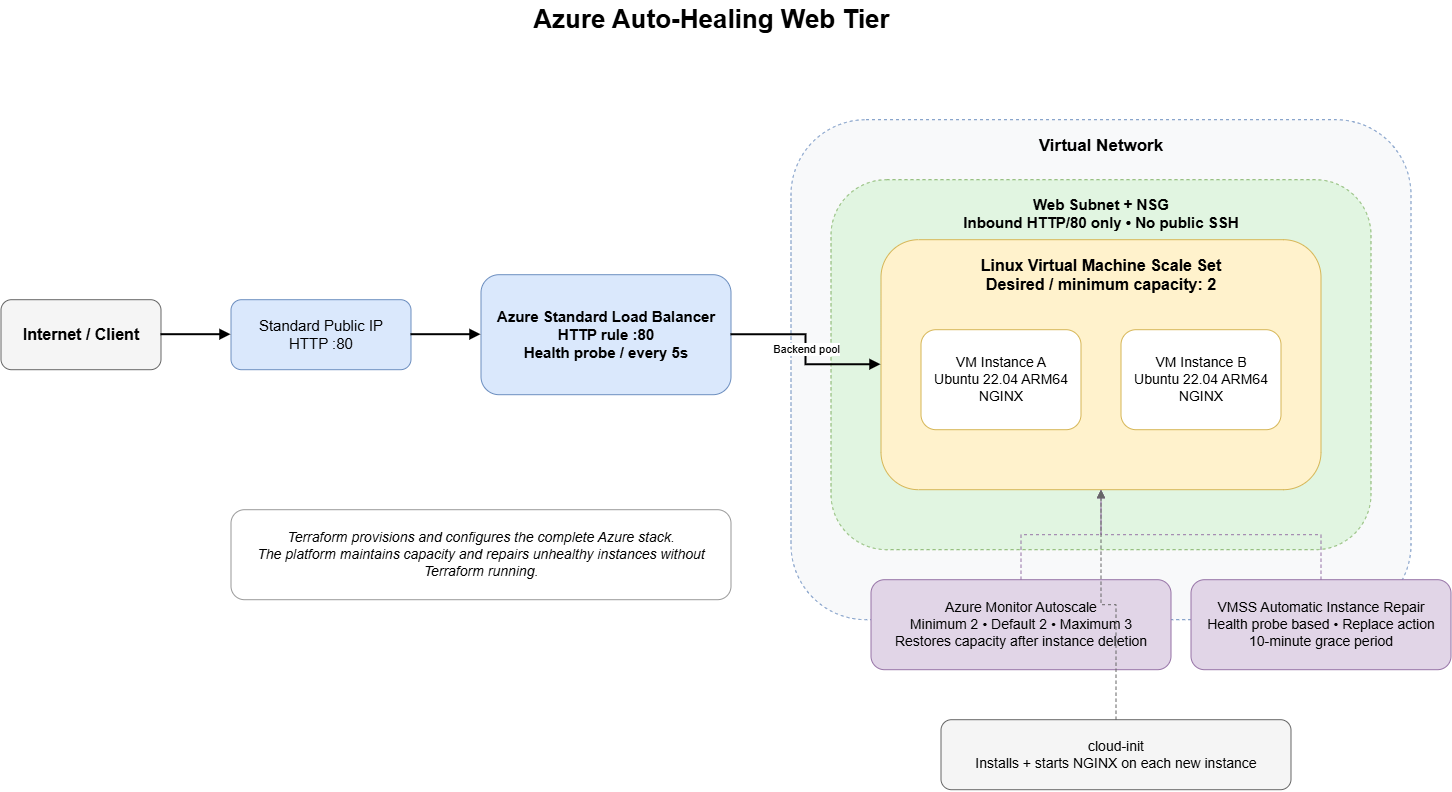
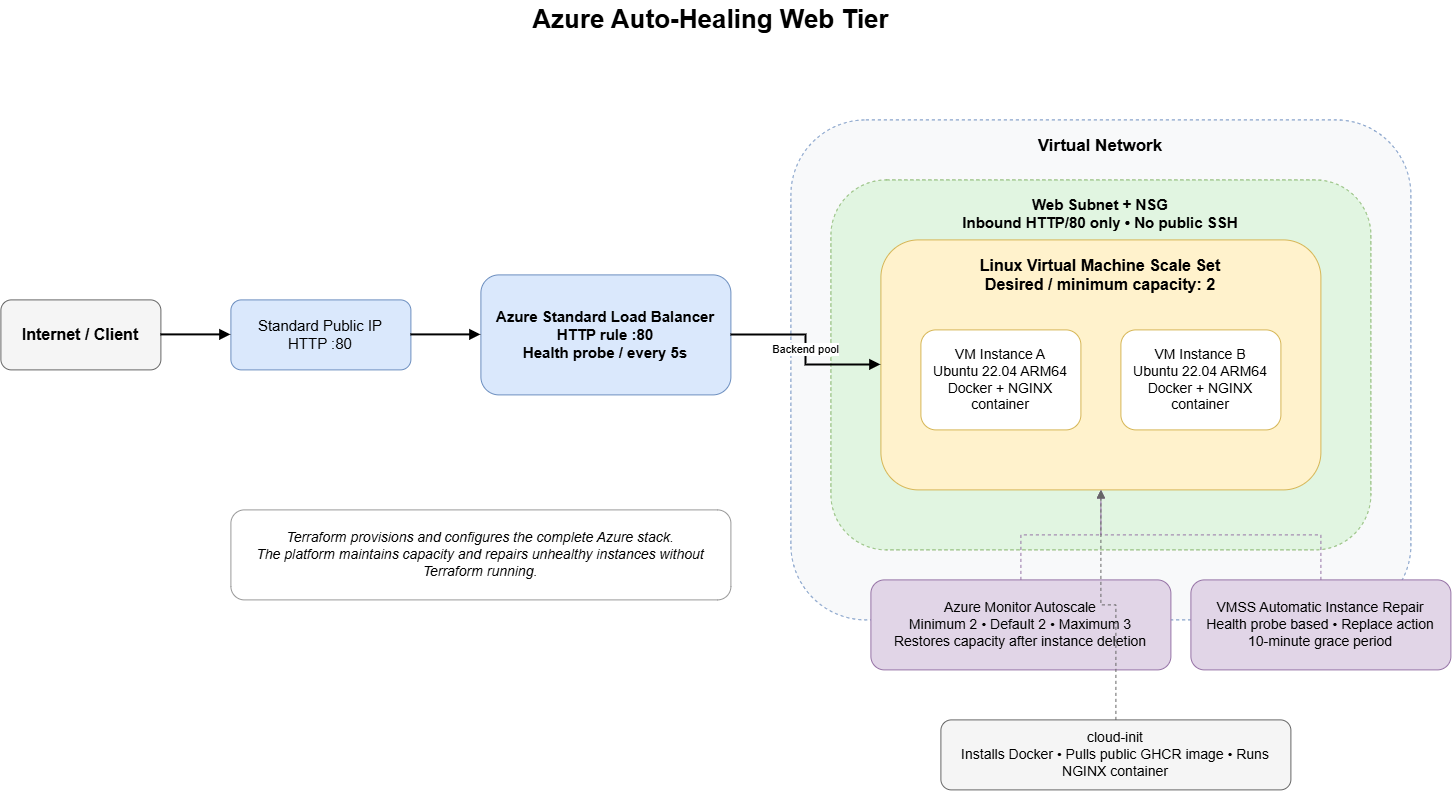
Document containerised web tier deployment

diff --git a/README.md b/README.md
@@ -2,7 +2,7 @@
 
 ## Overview
 
-This project deploys an auto-healing web tier in Microsoft Azure using Terraform. Internet traffic enters through a Standard Public IP and Azure Standard Load Balancer and is distributed across a Virtual Machine Scale Set (VMSS) running a minimum of two Ubuntu instances. Each instance is provisioned automatically with NGINX by cloud-init.
+This project deploys an auto-healing web tier in Microsoft Azure using Terraform. Internet traffic enters through a Standard Public IP and Azure Standard Load Balancer and is distributed across a Virtual Machine Scale Set (VMSS) running a minimum of two Ubuntu instances. Each instance is provisioned automatically by cloud-init with Docker, which pulls and runs a public ARM64 NGINX container image from GitHub Container Registry (GHCR).
 
 The design demonstrates Infrastructure as Code (IaC), N+1 capacity, health-based instance recovery, automatic capacity restoration, repeatable deployment and Terraform idempotency.
 
@@ -27,7 +27,7 @@ The deployed architecture contains:
 - Azure Standard Load Balancer with HTTP health probe, inbound HTTP rule and explicit outbound rule.
 - Linux Virtual Machine Scale Set with desired/minimum capacity of two instances.
 - Ubuntu 22.04 LTS ARM64 instances using `Standard_B2pts_v2`.
-- cloud-init bootstrap that installs, enables and starts NGINX.
+- cloud-init bootstrap that installs Docker, pulls the public ARM64 image from GHCR and runs the NGINX container on TCP/80.
 - Automatic Instance Repair using the Load Balancer health probe and `Replace` action.
 - Azure Monitor Autoscale configured with minimum/default capacity 2 and maximum 3, maintaining the required minimum capacity after an instance is explicitly deleted.
 
@@ -38,6 +38,12 @@ https://learn.microsoft.com/en-us/azure/virtual-machine-scale-sets/virtual-machi
 
 ```text
 .
+├── .github/
+│   └── workflows/
+│       └── docker-publish.yml
+├── docker/
+│   ├── Dockerfile
+│   └── index.html
 ├── cloud-init.yaml
 ├── main.tf
 ├── moved.tf
@@ -58,6 +64,7 @@ https://learn.microsoft.com/en-us/azure/virtual-machine-scale-sets/virtual-machi
     └── evidence/
         ├── cost/
         ├── deployment/
+        ├── docker/
         ├── idempotency/
         └── self-healing/
 ```
@@ -145,6 +152,12 @@ terraform output
 
 The Public IP can change after a full destroy/rebuild, so validation should always use the current Terraform output rather than a previously allocated address.
 
+At the time of the final container validation, the deployed endpoint was:
+
+<http://20.213.52.138/>
+
+The address above represents the current deployment only. `terraform output -raw web_url` remains the authoritative way to retrieve the endpoint after future rebuilds.
+
 ### Deployment Evidence
 
 The Terraform-managed Azure resources are shown below.
@@ -155,7 +168,7 @@ Two healthy VMSS instances were verified before failure testing:
 
 ![Two VMSS instances](docs/evidence/deployment/02-two-vmss-instances.png)
 
-The load-balanced endpoint successfully serves the default NGINX page:
+The original load-balanced deployment successfully served the default NGINX page before the container enhancement:
 
 ![NGINX load-balanced endpoint](docs/evidence/deployment/03-nginx-load-balanced-endpoint.png)
 
@@ -181,7 +194,7 @@ $webUrl = terraform output -raw web_url
 curl.exe $webUrl
 ```
 
-The response returns the default NGINX welcome page.
+The current deployment returns the custom static page served by the NGINX container.
 
 ### 3. Self-Healing / Capacity Recovery
 
@@ -200,7 +213,7 @@ The screenshot below captures the continuous HTTP monitor during deliberate inst
 
 ![Instance deletion with HTTP monitoring](docs/evidence/self-healing/01-instance-deletion-http-monitor.png)
 
-The replacement instance was subsequently verified with NGINX active and returning HTTP 200 locally:
+For the original native-NGINX validation, the replacement instance was subsequently verified with NGINX active and returning HTTP 200 locally:
 
 ```powershell
 az vmss run-command invoke `
@@ -246,7 +259,7 @@ Plan: 13 to add, 0 to change, 0 to destroy.
 Apply complete! Resources: 13 added, 0 changed, 0 destroyed.
 ```
 
-After the rebuild, the VMSS again contained two instances and the NGINX page was reachable through the newly allocated Load Balancer frontend IP.
+After the rebuild, the VMSS again contained two instances and the web endpoint was reachable through the newly allocated Load Balancer frontend IP.
 
 ### 5. Idempotency
 
@@ -265,6 +278,51 @@ No changes. Your infrastructure matches the configuration.
 This confirms the committed configuration converges cleanly without unnecessary infrastructure changes.
 
 ![Terraform plan showing no changes](docs/evidence/idempotency/01-terraform-plan-no-changes.png)
+
+## Container Image and Automated VM Provisioning
+
+The web workload is packaged as an NGINX container image. The repository includes a `Dockerfile` and static `index.html`, while the GitHub Actions workflow builds the image for `linux/arm64` and publishes it to GitHub Container Registry.
+
+Published image:
+
+```text
+ghcr.io/bishalraktim/azure-auto-healing-web-tier:latest
+```
+
+New VMSS instances bootstrap through `cloud-init.yaml`. The bootstrap installs Docker, enables the Docker service, pulls the public image and starts the container with a restart policy and host TCP/80 mapped to container TCP/80. This means replacement instances created by the scale set can provision the web workload without manual configuration.
+
+The container build and publication completed successfully:
+
+![GitHub Actions container build](docs/evidence/docker/01-github-container-build.png)
+
+After updating the VMSS model, instances were replaced sequentially so that capacity remained available during the migration. The replacement instances automatically installed Docker and ran the published image:
+
+![VMSS Docker validation](docs/evidence/docker/02-vmss-docker-validation.png)
+
+The public Load Balancer endpoint serves the containerised static page:
+
+![Containerised web endpoint](docs/evidence/docker/03-containerised-web-endpoint.png)
+
+The VMSS was then verified with two healthy replacement instances on the latest model:
+
+![Containerised VMSS instances](docs/evidence/docker/04-containerised-vmss-instances.png)
+
+The current container state on a VMSS instance can be checked without exposing SSH publicly:
+
+```powershell
+az vmss run-command invoke `
+  --resource-group web-lab-rg `
+  --name web-lab-vmss `
+  --instance-id <instance-id> `
+  --command-id RunShellScript `
+  --scripts "docker --version; docker ps; curl -s -o /dev/null -w '%{http_code}' http://localhost"
+```
+
+A final `terraform plan` after the container rollout reported:
+
+```text
+No changes. Your infrastructure matches the configuration.
+```
 
 ## Security and Network Design
 
@@ -308,7 +366,7 @@ https://learn.microsoft.com/en-us/azure/load-balancer/skus
 ## Assumptions and Trade-offs
 
 - This is a non-production reference implementation focused on infrastructure resilience and repeatability.
-- The default NGINX page is sufficient to validate provisioning, load balancing and recovery.
+- A small static NGINX page is sufficient to validate provisioning, load balancing and recovery.
 - HTTP is sufficient for this non-sensitive static demonstration; production traffic should use HTTPS/TLS.
 - Australia East is used for the deployment.
 - Normal desired/minimum VMSS capacity is two; autoscale maximum is three as an upper boundary.
@@ -330,6 +388,7 @@ The cleanup workflow was tested successfully and removed all 13 Terraform-manage
 
 The core web tier is complete and validated. Potential enhancements include:
 
-- Containerising the NGINX page with Docker and publishing the image to a container registry.
-- Updating cloud-init so each VM pulls and runs the container automatically.
-- Adding a CI workflow for Terraform formatting and validation.
+- Adding a Terraform CI workflow for formatting and validation.
+- Adding HTTPS/TLS with DNS and trusted certificate management.
+- Adding centralised application and infrastructure monitoring.
+- Extending the design across availability zones where workload requirements justify it.
